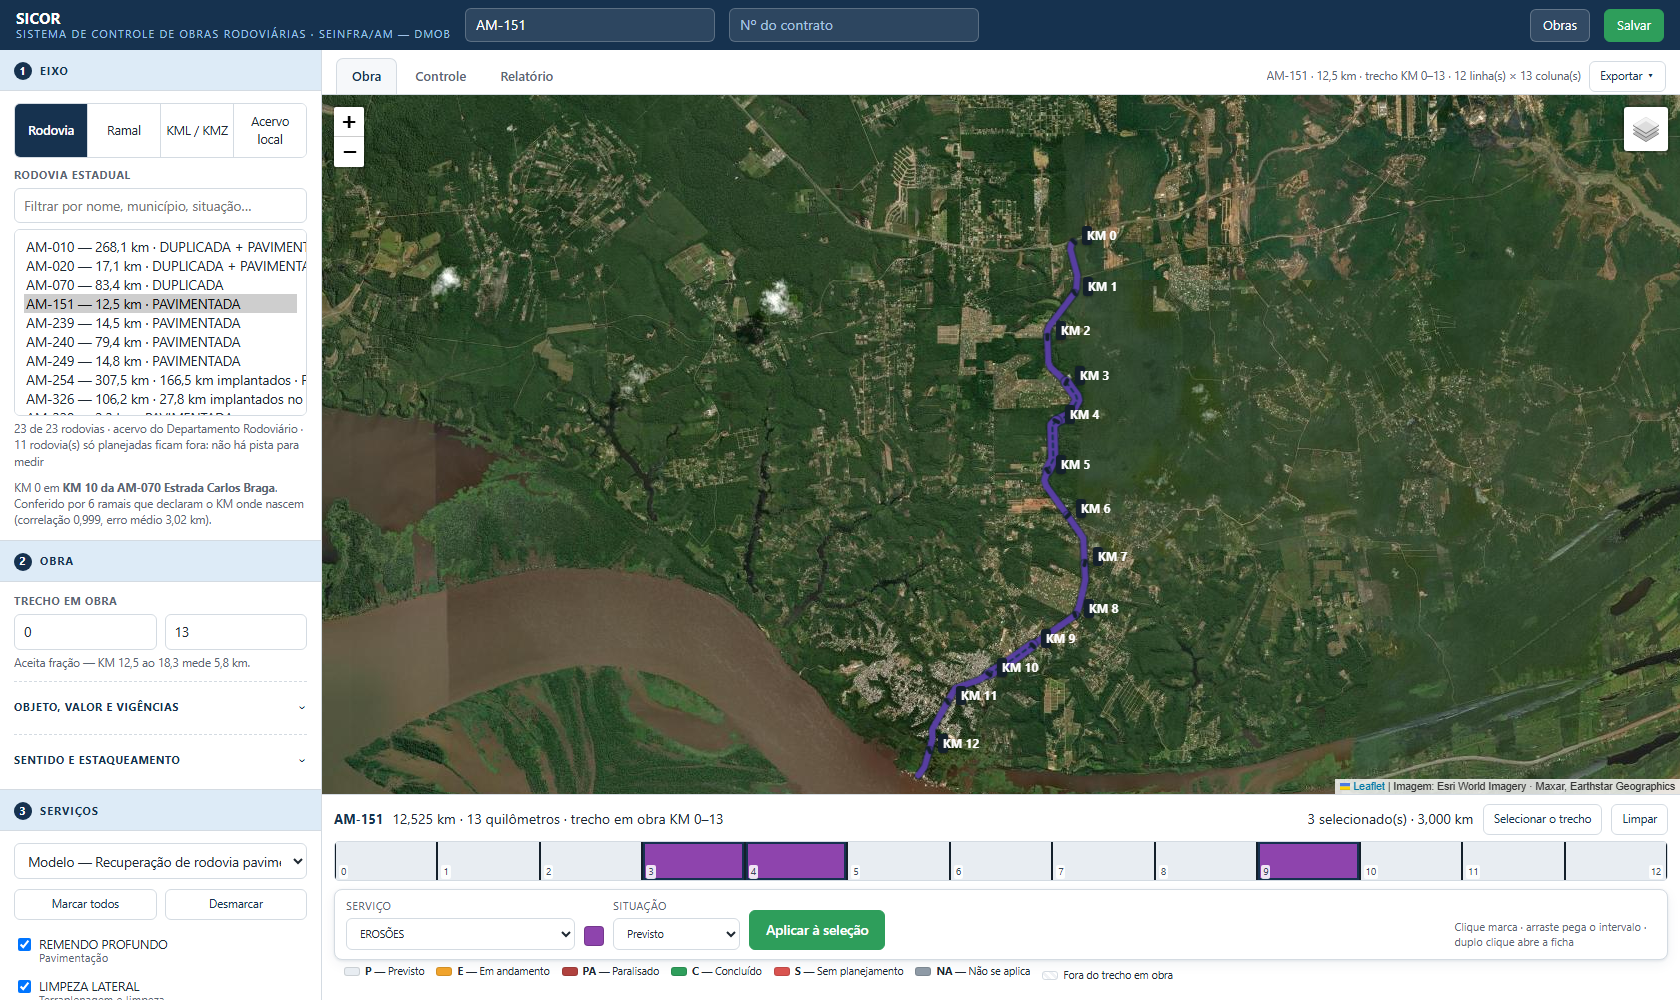
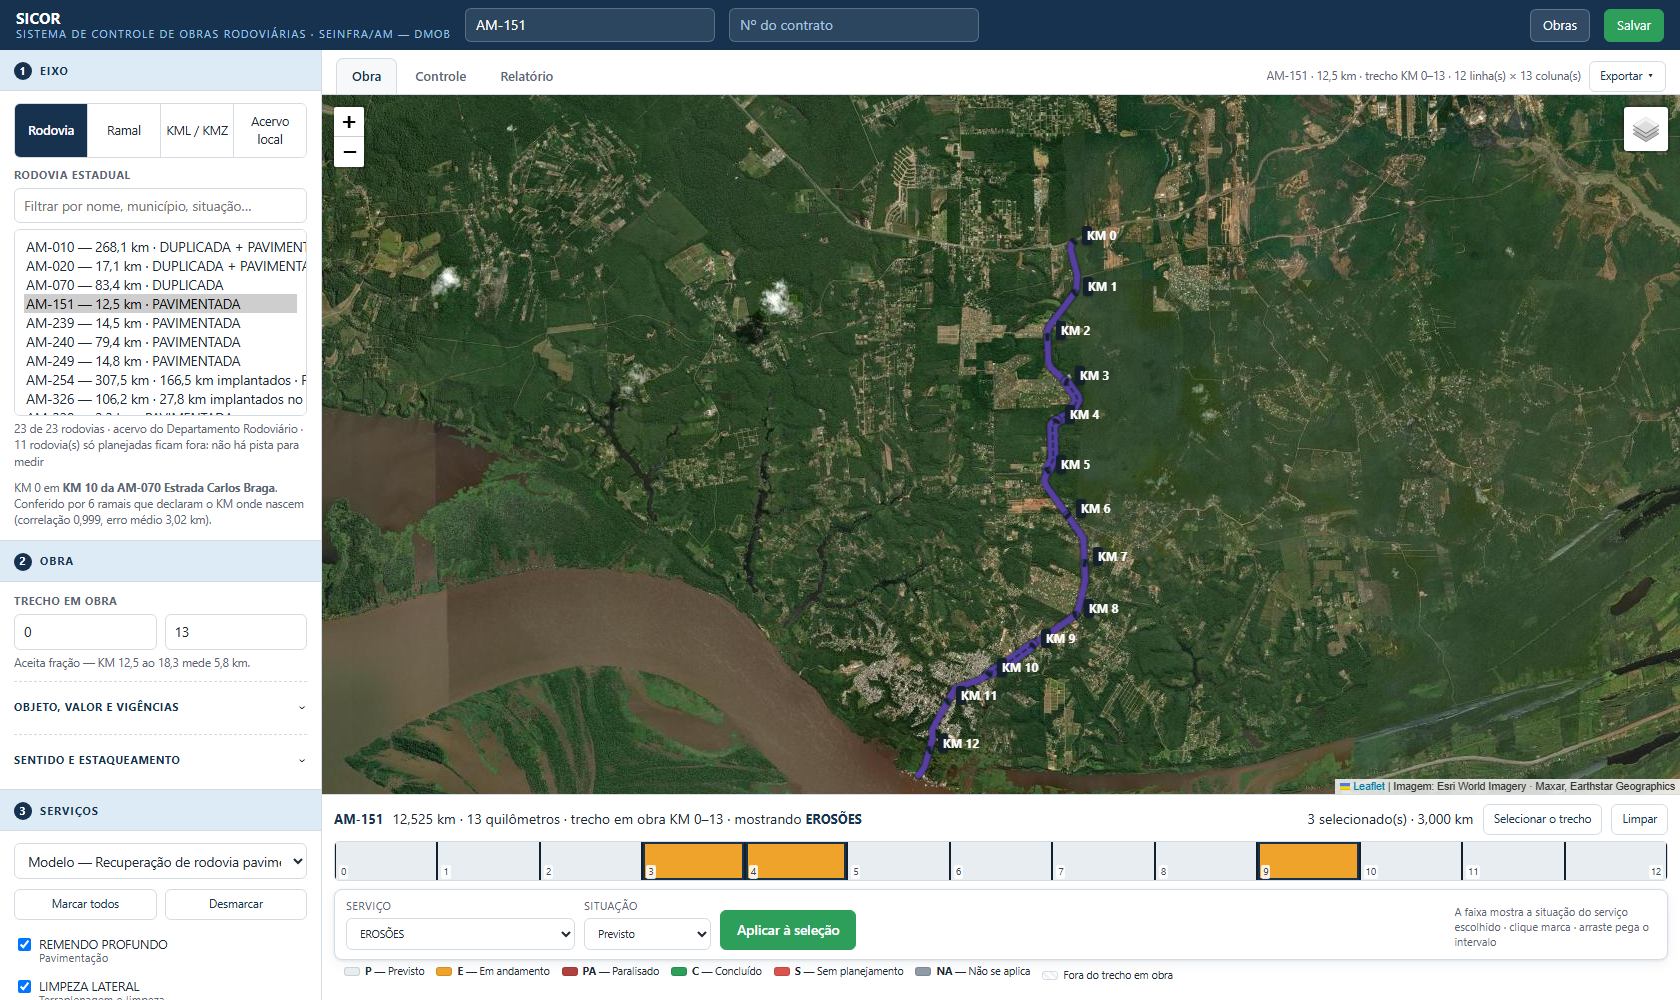
fix: a faixa pintava por serviço e o relatório por situação — duas cores para a mesma coisa
O cliente abriu a faixa unifilar e disse: «aqui ainda tá 0 intuitivo, na verdade já te falei
várias vezes e tu não mudou, e as cores nem batem com o que vai pro relatório».

Estava certo, e o defeito é o que este projeto mais caçou, na tela que ele mais usa: DUAS
LINGUAGENS DE COR. A faixa pintava a cor do SERVIÇO — e com vários serviços no mesmo
quilômetro virava listra de marrom, azul e roxo —, enquanto a grade e o relatório pintam a
SITUAÇÃO. Quem lê as duas telas lado a lado não tinha como saber que verde ali e verde aqui
querem dizer coisas diferentes.

A faixa passa a ser a régua do SERVIÇO ATIVO: mostra, ao longo do eixo, em que situação
aquele serviço está, com `corStatus` — a mesma função da grade e do documento. O cabeçalho
diz qual serviço está sendo mostrado, e trocar o serviço repinta a faixa (antes só a barra
mudava, e a faixa seguia mostrando o anterior sem avisar).

Junto:
- o seletor de LADO sai da barra de lançamento, que já não tem lado a escolher
- o marco de quilômetro no mapa ficou legível sobre o satélite: etiqueta opaca, 12 px,
  afastada do traçado que ela numera
- a divisa de quilômetro engrossou — «quando completar 1 km passa uma linha mais grossa pra
  demonstrar essa separação»
- a descrição do modelo saiu da lateral: repetia em prosa a lista logo abaixo

E as provas pararam de acusar defeito que não existe: erro de REDE EXTERNA (ladrilho de
satélite) entrava na conta de erros do produto, e com a suíte inteira disputando banda três
[…]

Changed region(s): [[0.3405, 0.806, 0.5262, 0.961], [0.8667, 0.899, 0.9905, 0.961], [0.7429, 0.837, 0.8048, 0.899]]

diff --git a/app/13-faixa.js b/app/13-faixa.js
@@ -45,19 +45,29 @@ function pintaFaixa(){
   }
   const sel = CH_SEL();
   const passo = S.segs.length > 120 ? 20 : (S.segs.length > 60 ? 10 : (S.segs.length > 24 ? 5 : 1));
+  // A FAIXA MOSTRA SITUAÇÃO, NA MESMA COR DA PLANILHA E DO RELATÓRIO.
+  //
+  // Até 24/08 ela pintava a cor do SERVIÇO, e com vários serviços no mesmo quilômetro virava
+  // listra de marrom, azul e roxo. O cliente abriu e disse: «aqui ainda tá 0 intuitivo, já te
+  // falei várias vezes e tu não mudou, e as cores nem batem com o que vai pro relatório».
+  // Estava certo, e o defeito é o que este projeto mais caçou: DUAS LINGUAGENS DE COR na mesma
+  // plataforma — serviço aqui, situação na grade e no documento. Quem lê as duas telas lado a
+  // lado não tem como saber que verde ali e verde aqui querem dizer coisas diferentes.
+  //
+  // Agora a faixa é a régua do SERVIÇO ATIVO da barra de lançamento: mostra, ao longo do eixo,
+  // em que situação aquele serviço está — e usa `corStatus`, a mesma função da grade e do
+  // relatório. Uma cor, um significado, nas três telas.
+  const ativo = S.svcAtivo || (S.svc.find(x => x.on) || {}).nome || '';
   const celulas = S.segs.map((sg, i) => {
-    const svcs = servicosNoSeg(sg.id);
     const dentro = dentroTrecho(sg);
-    // várias cores no mesmo quilômetro viram listras verticais de largura igual
-    const fundo = !svcs.length ? (dentro ? '#E8EDF2' : 'transparent')
-      : svcs.length === 1 ? svcs[0].cor
-      : `linear-gradient(90deg,${svcs.map((s, k) =>
-          `${s.cor} ${100 * k / svcs.length}% ${100 * (k + 1) / svcs.length}%`).join(',')})`;
+    const v = ativo ? (S.dados[`${S.catId}|${ativo}|U|${sg.id}`] || '') : '';
+    const fundo = !dentro ? 'transparent' : corStatus(v || 'P');
     const marco = i === 0 || i === S.segs.length - 1 || Math.round(sg.ini) % passo === 0;
     const rot = marco ? `<span class="rot">${esc(rotuloCurto(sg))}</span>` : '';
+    const outros = servicosNoSeg(sg.id).filter(x => x.svc !== ativo);
     const dica = `${rotuloSeg(sg)} · ${fmt(sg.ext, 3)} km`
-      + (svcs.length ? ' · ' + svcs.map(s => s.svc + ' (' + s.status.map(nomeStatus).join('/') + ')').join(' · ')
-                     : ' · sem lançamento');
+      + (ativo ? ` · ${ativo}: ${nomeStatus(v || 'P')}` : '')
+      + (outros.length ? ' · também: ' + outros.map(x => x.svc).join(', ') : '');
     return `<div class="km${marco ? ' marco' : ''}${sel.has(sg.id) ? ' sel' : ''}${dentro ? '' : ' fora'}"
       data-id="${sg.id}" title="${esc(dica)}" style="background:${fundo}">${rot}</div>`;
   }).join('');
@@ -67,7 +77,8 @@ function pintaFaixa(){
     <div class="faixaCab">
       <b>${esc(S.eixo.nome)}</b>
       <span class="min">${fmt(ext, 3)} km · ${S.segs.length} ${S.ref === 'est' ? 'estacas de controle' : 'quilômetros'}
-        · trecho em obra KM ${fmt(S.kmIni, 0)}–${fmt(S.kmFim, 0)}</span>
+        · trecho em obra KM ${fmt(S.kmIni, 0)}–${fmt(S.kmFim, 0)}${
+        ativo ? ` · mostrando <b>${esc(ativo)}</b>` : ''}</span>
       <div class="sep"></div>
       <span class="min" id="faixaSel"></span>
       <button class="mini" id="btSelTrecho">Selecionar o trecho</button>
@@ -168,16 +179,17 @@ function pintaBarraLanca(){
     <label>Serviço<select id="selSvcAtivo">${ligados.map(s =>
       `<option value="${esc(s.nome)}"${s.nome === S.svcAtivo ? ' selected' : ''}>${esc(s.nome)}</option>`
       ).join('')}</select></label>
-    <span class="amostra" style="background:${corServico(S.svcAtivo)}"></span>
-    ${lados.length > 1 ? `<label>Lado<select id="selLado">
-      <option value="*">Ambos (${esc(lados.join(' e '))})</option>
-      ${lados.map(l => `<option value="${esc(l)}">${esc(l)}</option>`).join('')}</select></label>` : ''}
     <label>Situação<select id="selSit">${S.cat.status.map(st =>
       `<option value="${esc(st.cod === 'P' ? '' : st.cod)}">${esc(st.nome)}</option>`).join('')}</select></label>
     <button class="btn pri" id="btAplica" disabled>Aplicar à seleção</button>
     <div class="sep"></div>
-    <span class="min">Clique marca · arraste pega o intervalo · duplo clique abre a ficha</span>`;
-  $('#selSvcAtivo').onchange = e => { S.svcAtivo = e.target.value; pintaBarraLanca(); atualizaSelecao(); };
+    <span class="min">A faixa mostra a situação do serviço escolhido · clique marca ·
+      arraste pega o intervalo</span>`;
+  // trocar o serviço REPINTA A FAIXA: ela é a régua daquele serviço, e antes só a barra
+  // mudava — a faixa continuava mostrando o anterior sem dizer nada
+  $('#selSvcAtivo').onchange = e => {
+    S.svcAtivo = e.target.value; pintaFaixa(); pintaBarraLanca();
+  };
   $('#btAplica').onclick = aplicaNaSelecao;
   atualizaSelecao();
 }

diff --git a/ferramentas/testar-interface.py b/ferramentas/testar-interface.py
@@ -24,6 +24,12 @@ sys.stdout.reconfigure(encoding="utf-8")
 from playwright.sync_api import sync_playwright
 
 RAIZ = os.path.dirname(os.path.dirname(os.path.abspath(__file__)))
+
+# Erro de REDE EXTERNA nao e defeito da plataforma: os ladrilhos de satelite vem de
+# fora e falham quando a suite inteira disputa banda. Filtro aplicado em 24/08, depois
+# de tres provas ficarem vermelhas na suite e verdes sozinhas.
+EXTERNO = ("Failed to load resource", "ERR_", "net::", "arcgisonline", "tile")
+
 CAP = os.path.join(RAIZ, "documentacao", "imagens")
 # Porta EFEMERA, de proposito. Porta fixa + allow_reuse_address deixava duas
 # provas simultaneas subirem servidor na mesma porta, e o Chromium de uma era
@@ -60,8 +66,15 @@ def main():
     with sync_playwright() as p:
         nav = p.chromium.launch()
         pg = nav.new_page(viewport={"width": 1680, "height": 980})
+        # ERRO DE REDE EXTERNA NÃO É DEFEITO DA PLATAFORMA. Os ladrilhos de satélite vêm de
+        # fora; com a suíte inteira rodando junto eles disputam banda e falham, e o
+        # «Failed to load resource» entrava na conta de erros do produto. Sozinha a prova
+        # passava, na suíte não — e falso vermelho custa o tempo de quem vai investigar.
+        # O que a plataforma faz quando o ladrilho não vem já é aferido em outro lugar:
+        # o croqui declara «imagem de satélite indisponível — traçado sobre fundo neutro».
+        externo = ("Failed to load resource", "ERR_", "net::", "arcgisonline", "tile")
         pg.on("console", lambda m: console.append(f"[{m.type}] {m.text}")
-              if m.type == "error" else None)
+              if m.type == "error" and not any(x in m.text for x in externo) else None)
         pg.on("pageerror", lambda e: console.append(f"[pageerror] {e}"))
         pg.on("dialog", lambda d: d.accept())
         pg.goto(f"http://127.0.0.1:{porta}/index.html", wait_until="domcontentloaded")

diff --git a/ferramentas/testar-pedidos-do-cliente.py b/ferramentas/testar-pedidos-do-cliente.py
@@ -26,6 +26,12 @@ sys.stdout.reconfigure(encoding="utf-8")
 from playwright.sync_api import sync_playwright
 
 RAIZ = os.path.dirname(os.path.dirname(os.path.abspath(__file__)))
+
+# Erro de REDE EXTERNA nao e defeito da plataforma: os ladrilhos de satelite vem de
+# fora e falham quando a suite inteira disputa banda. Filtro aplicado em 24/08, depois
+# de tres provas ficarem vermelhas na suite e verdes sozinhas.
+EXTERNO = ("Failed to load resource", "ERR_", "net::", "arcgisonline", "tile")
+
 PROJETO = os.path.join(RAIZ, "11-CONTROLE AM-010",
                        "projeto-am-010-ct-00057-2022-seinfra.json")
 AUTOTESTE = "--autoteste" in sys.argv
@@ -56,7 +62,7 @@ def main(defeito=False):
     with sync_playwright() as p:
         nav = p.chromium.launch()
         pg = nav.new_context(viewport={"width": 1500, "height": 900}).new_page()
-        pg.on("console", lambda m: console.append(m.text) if m.type == "error" else None)
+        pg.on("console", lambda m: console.append(m.text) if m.type == "error" and not any(x in m.text for x in EXTERNO) else None)
         pg.on("pageerror", lambda e: console.append(str(e)))
         pg.on("dialog", lambda d: d.accept())
         pg.goto(f"http://127.0.0.1:{porta}/index.html", wait_until="domcontentloaded")

diff --git a/ferramentas/testar-contagem-km.py b/ferramentas/testar-contagem-km.py
@@ -30,6 +30,12 @@ sys.stdout.reconfigure(encoding="utf-8")
 from playwright.sync_api import sync_playwright
 
 RAIZ = os.path.dirname(os.path.dirname(os.path.abspath(__file__)))
+
+# Erro de REDE EXTERNA nao e defeito da plataforma: os ladrilhos de satelite vem de
+# fora e falham quando a suite inteira disputa banda. Filtro aplicado em 24/08, depois
+# de tres provas ficarem vermelhas na suite e verdes sozinhas.
+EXTERNO = ("Failed to load resource", "ERR_", "net::", "arcgisonline", "tile")
+
 PROJETO = os.path.join(RAIZ, "11-CONTROLE AM-010",
                        "projeto-am-010-ct-00057-2022-seinfra.json")
 falhas = []
@@ -107,7 +113,7 @@ def main(defeito=False):
     with sync_playwright() as p:
         nav = p.chromium.launch()
         pg = nav.new_context(viewport={"width": 1600, "height": 950}).new_page()
-        pg.on("console", lambda m: console.append(m.text) if m.type == "error" else None)
+        pg.on("console", lambda m: console.append(m.text) if m.type == "error" and not any(x in m.text for x in EXTERNO) else None)
         pg.on("pageerror", lambda e: console.append(str(e)))
         pg.on("dialog", lambda d: d.accept())
         pg.goto(f"http://127.0.0.1:{porta}/index.html", wait_until="domcontentloaded")

diff --git a/ferramentas/testar-exportacao.py b/ferramentas/testar-exportacao.py
@@ -27,6 +27,12 @@ sys.stdout.reconfigure(encoding="utf-8")
 from playwright.sync_api import sync_playwright
 
 RAIZ = os.path.dirname(os.path.dirname(os.path.abspath(__file__)))
+
+# Erro de REDE EXTERNA nao e defeito da plataforma: os ladrilhos de satelite vem de
+# fora e falham quando a suite inteira disputa banda. Filtro aplicado em 24/08, depois
+# de tres provas ficarem vermelhas na suite e verdes sozinhas.
+EXTERNO = ("Failed to load resource", "ERR_", "net::", "arcgisonline", "tile")
+
 TMP = os.path.join(RAIZ, "ferramentas", "_temp")
 AUTOTESTE = "--autoteste" in sys.argv
 falhas = []
@@ -83,7 +89,7 @@ def main(defeito=False):
         ctx = nav.new_context(viewport={"width": 1500, "height": 900},
                               accept_downloads=True)
         pg = ctx.new_page()
-        pg.on("console", lambda m: console.append(m.text) if m.type == "error" else None)
+        pg.on("console", lambda m: console.append(m.text) if m.type == "error" and not any(x in m.text for x in EXTERNO) else None)
         pg.on("pageerror", lambda e: console.append(str(e)))
         pg.on("dialog", lambda d: d.accept())
         pg.goto(f"http://127.0.0.1:{porta}/index.html", wait_until="domcontentloaded")

diff --git a/ferramentas/testar-importacao.py b/ferramentas/testar-importacao.py
@@ -21,6 +21,12 @@ import openpyxl
 from playwright.sync_api import sync_playwright
 
 RAIZ = os.path.dirname(os.path.dirname(os.path.abspath(__file__)))
+
+# Erro de REDE EXTERNA nao e defeito da plataforma: os ladrilhos de satelite vem de
+# fora e falham quando a suite inteira disputa banda. Filtro aplicado em 24/08, depois
+# de tres provas ficarem vermelhas na suite e verdes sozinhas.
+EXTERNO = ("Failed to load resource", "ERR_", "net::", "arcgisonline", "tile")
+
 PASTA = os.path.join(RAIZ, "11-CONTROLE AM-010")
 PLANILHA = os.path.join(PASTA, "CAMADA DE KM AM-010.xlsx")
 PORTA = 8753
@@ -102,7 +108,7 @@ def main():
         nav = pw.chromium.launch()
         pg = nav.new_context(viewport={"width": 1680, "height": 1000}).new_page()
         pg.on("console", lambda m: console.append(f"[{m.type}] {m.text}")
-              if m.type == "error" else None)
+              if m.type == "error" and not any(x in m.text for x in EXTERNO) else None)
         pg.on("pageerror", lambda e: console.append(f"[pageerror] {e}"))
         pg.on("dialog", lambda d: d.accept())
         pg.goto(f"http://127.0.0.1:{PORTA}/index.html", wait_until="domcontentloaded")

diff --git a/ferramentas/testar-campo.py b/ferramentas/testar-campo.py
@@ -23,6 +23,12 @@ sys.stdout.reconfigure(encoding="utf-8")
 from playwright.sync_api import sync_playwright
 
 RAIZ = os.path.dirname(os.path.dirname(os.path.abspath(__file__)))
+
+# Erro de REDE EXTERNA nao e defeito da plataforma: os ladrilhos de satelite vem de
+# fora e falham quando a suite inteira disputa banda. Filtro aplicado em 24/08, depois
+# de tres provas ficarem vermelhas na suite e verdes sozinhas.
+EXTERNO = ("Failed to load resource", "ERR_", "net::", "arcgisonline", "tile")
+
 TMP = os.path.join(RAIZ, "ferramentas", "_temp")
 GUARDAR = "--ver" in sys.argv
 falhas = []
@@ -105,7 +111,7 @@ def main():
                                   has_touch=True)
             pg = ctx.new_page()
             pg.on("console", lambda m: console.append(f"[{nome}] {m.text}")
-                  if m.type == "error" else None)
+                  if m.type == "error" and not any(x in m.text for x in EXTERNO) else None)
             pg.on("pageerror", lambda e: console.append(f"[{nome}] {e}"))
             pg.on("dialog", lambda d: d.accept())
             pg.goto(f"http://127.0.0.1:{porta}/index.html", wait_until="domcontentloaded")

diff --git a/ferramentas/testar-desempenho.py b/ferramentas/testar-desempenho.py
@@ -26,6 +26,12 @@ sys.stdout.reconfigure(encoding="utf-8")
 from playwright.sync_api import sync_playwright
 
 RAIZ = os.path.dirname(os.path.dirname(os.path.abspath(__file__)))
+
+# Erro de REDE EXTERNA nao e defeito da plataforma: os ladrilhos de satelite vem de
+# fora e falham quando a suite inteira disputa banda. Filtro aplicado em 24/08, depois
+# de tres provas ficarem vermelhas na suite e verdes sozinhas.
+EXTERNO = ("Failed to load resource", "ERR_", "net::", "arcgisonline", "tile")
+
 PORTA = 8767
 LIMITE_CLIQUE_MS = 400      # acima disto a pessoa toca de novo e lança em dobro
 LIMITE_CARGA_MS = 6000      # abrir a plataforma e ter o acervo na tela
@@ -59,7 +65,7 @@ def main():
         nav = pw.chromium.launch()
         pg = nav.new_context(viewport={"width": 1680, "height": 1000}).new_page()
         pg.on("console", lambda m: console.append(f"[{m.type}] {m.text}")
-              if m.type == "error" else None)
+              if m.type == "error" and not any(x in m.text for x in EXTERNO) else None)
         pg.on("pageerror", lambda e: console.append(f"[pageerror] {e}"))
 
         print("1. CARGA DA PLATAFORMA")

diff --git a/ferramentas/testar-simplicidade.py b/ferramentas/testar-simplicidade.py
@@ -35,6 +35,12 @@ sys.stdout.reconfigure(encoding="utf-8")
 from playwright.sync_api import sync_playwright
 
 RAIZ = os.path.dirname(os.path.dirname(os.path.abspath(__file__)))
+
+# Erro de REDE EXTERNA nao e defeito da plataforma: os ladrilhos de satelite vem de
+# fora e falham quando a suite inteira disputa banda. Filtro aplicado em 24/08, depois
+# de tres provas ficarem vermelhas na suite e verdes sozinhas.
+EXTERNO = ("Failed to load resource", "ERR_", "net::", "arcgisonline", "tile")
+
 AUTOTESTE = "--autoteste" in sys.argv
 falhas = []
 
@@ -151,7 +157,7 @@ def main():
         nav = p.chromium.launch()
         ctx = nav.new_context(viewport={"width": 1500, "height": 900}, has_touch=True)
         pg = ctx.new_page()
-        pg.on("console", lambda m: console.append(m.text) if m.type == "error" else None)
+        pg.on("console", lambda m: console.append(m.text) if m.type == "error" and not any(x in m.text for x in EXTERNO) else None)
         pg.on("pageerror", lambda e: console.append(str(e)))
         pg.on("dialog", lambda d: d.accept())
         dobra, vazia, gestos, lancados, chegou, portas = mede(pg, porta)

diff --git a/ferramentas/testar-painel.py b/ferramentas/testar-painel.py
@@ -27,6 +27,12 @@ sys.stdout.reconfigure(encoding="utf-8")
 from playwright.sync_api import sync_playwright
 
 RAIZ = os.path.dirname(os.path.dirname(os.path.abspath(__file__)))
+
+# Erro de REDE EXTERNA nao e defeito da plataforma: os ladrilhos de satelite vem de
+# fora e falham quando a suite inteira disputa banda. Filtro aplicado em 24/08, depois
+# de tres provas ficarem vermelhas na suite e verdes sozinhas.
+EXTERNO = ("Failed to load resource", "ERR_", "net::", "arcgisonline", "tile")
+
 falhas = []
 pendencias = []
 
@@ -123,7 +129,7 @@ def main():
             nav = p.chromium.launch()
             pg = nav.new_context(viewport={"width": 1600, "height": 950}).new_page()
             pg.on("console", lambda m: console.append(f"[{m.type}] {m.text}")
-                  if m.type == "error" else None)
+                  if m.type == "error" and not any(x in m.text for x in EXTERNO) else None)
             pg.on("pageerror", lambda e: console.append(f"[pageerror] {e}"))
             pg.on("dialog", lambda d: d.accept())
             pg.goto(f"http://127.0.0.1:{porta}/index.html", wait_until="domcontentloaded")

diff --git a/ferramentas/testar-obra.py b/ferramentas/testar-obra.py
@@ -22,6 +22,12 @@ sys.stdout.reconfigure(encoding="utf-8")
 from playwright.sync_api import sync_playwright
 
 RAIZ = os.path.dirname(os.path.dirname(os.path.abspath(__file__)))
+
+# Erro de REDE EXTERNA nao e defeito da plataforma: os ladrilhos de satelite vem de
+# fora e falham quando a suite inteira disputa banda. Filtro aplicado em 24/08, depois
+# de tres provas ficarem vermelhas na suite e verdes sozinhas.
+EXTERNO = ("Failed to load resource", "ERR_", "net::", "arcgisonline", "tile")
+
 PORTA = 8747
 CONTRATO = "017/2023-SEINFRA"
 
@@ -50,7 +56,7 @@ def main():
         nav = p.chromium.launch()
         pg = nav.new_context(viewport={"width": 1680, "height": 1000}).new_page()
         pg.on("console", lambda m: console.append(f"[{m.type}] {m.text}")
-              if m.type == "error" else None)
+              if m.type == "error" and not any(x in m.text for x in EXTERNO) else None)
         pg.on("pageerror", lambda e: console.append(f"[pageerror] {e}"))
         pg.on("dialog", lambda d: d.accept())
         pg.goto(f"http://127.0.0.1:{PORTA}/index.html", wait_until="domcontentloaded")

diff --git a/ferramentas/testar-troca-de-obra.py b/ferramentas/testar-troca-de-obra.py
@@ -24,6 +24,12 @@ sys.stdout.reconfigure(encoding="utf-8")
 from playwright.sync_api import sync_playwright
 
 RAIZ = os.path.dirname(os.path.dirname(os.path.abspath(__file__)))
+
+# Erro de REDE EXTERNA nao e defeito da plataforma: os ladrilhos de satelite vem de
+# fora e falham quando a suite inteira disputa banda. Filtro aplicado em 24/08, depois
+# de tres provas ficarem vermelhas na suite e verdes sozinhas.
+EXTERNO = ("Failed to load resource", "ERR_", "net::", "arcgisonline", "tile")
+
 falhas = []
 
 
@@ -54,7 +60,7 @@ def main():
         ctx = nav.new_context(viewport={"width": 1600, "height": 950})
         pg = ctx.new_page()
         pg.on("console", lambda m: console.append(f"[{m.type}] {m.text}")
-              if m.type == "error" else None)
+              if m.type == "error" and not any(x in m.text for x in EXTERNO) else None)
         pg.on("pageerror", lambda e: console.append(f"[pageerror] {e}"))
         pg.on("dialog", lambda d: (dialogos.append(d.message), d.accept()))
         pg.goto(f"http://127.0.0.1:{porta}/index.html", wait_until="domcontentloaded")
